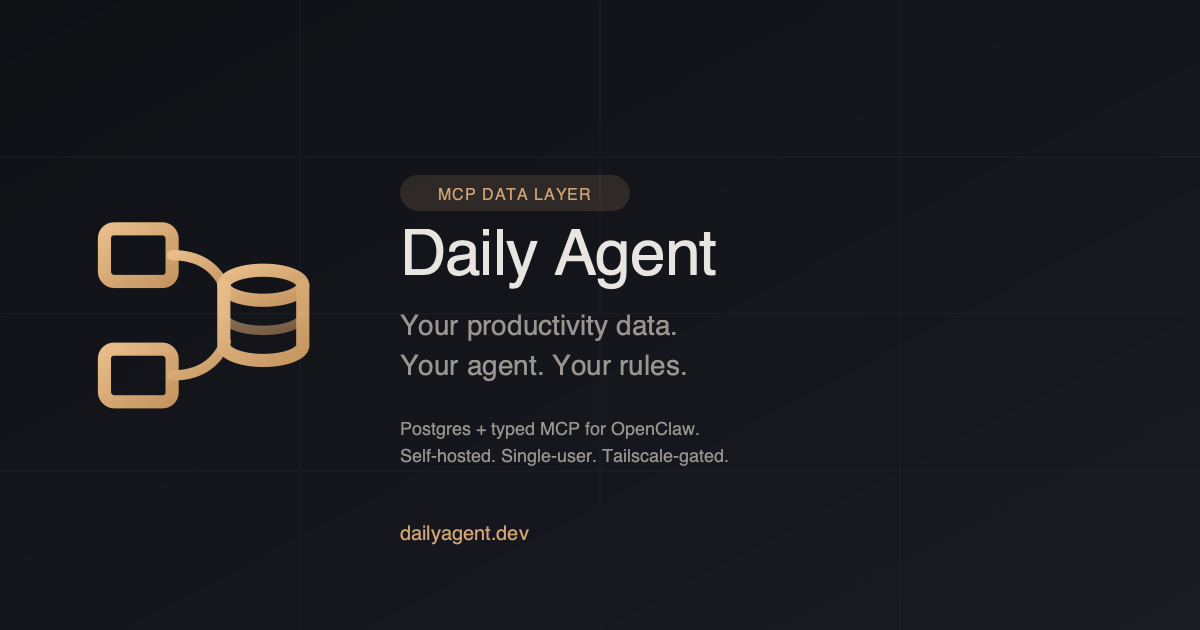
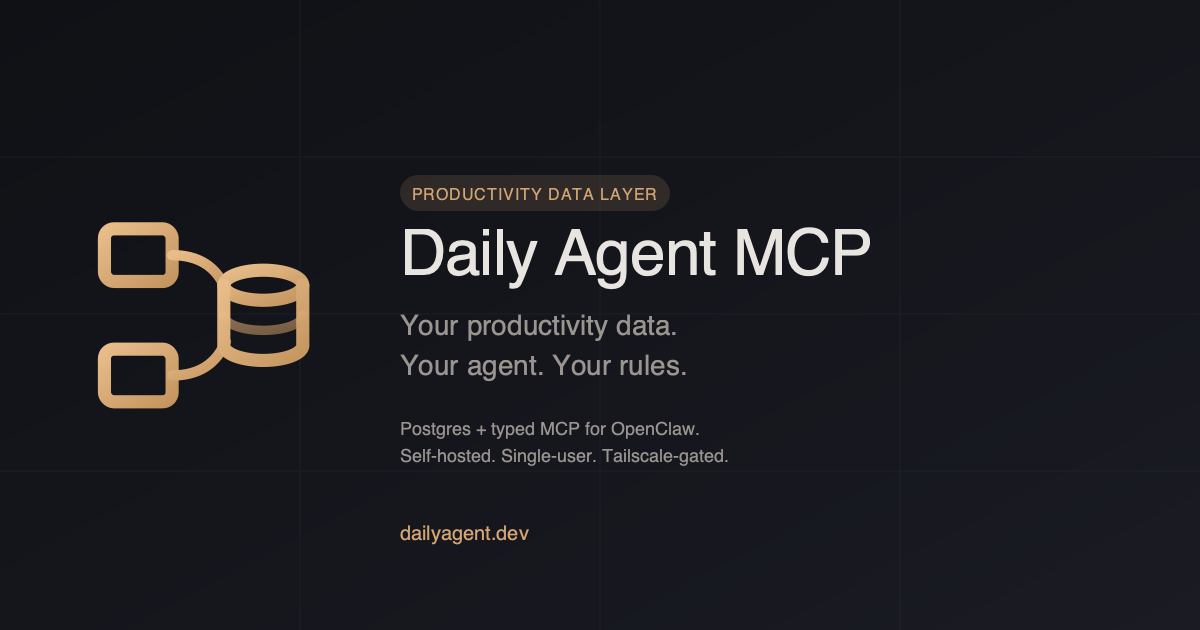
Brand: Daily Agent → Daily Agent MCP
The plain "Daily Agent" name was colliding with a long list of
unrelated habit-tracker / AI-assistant products. Bumping to
"Daily Agent MCP" is more distinctive, immediately communicates what
the thing actually is to the MCP-aware audience, and fits the
community naming pattern (GitHub MCP, Postgres MCP, etc.) where
MCP servers append the protocol to the product name.

Scope: user-facing brand only. Domain (dailyagent.dev), repo,
container names, DB name, env var names, package.json — all
unchanged. This is purely a display-name bump.

Updated:
- Landing page: <title>, OG/Twitter tags, brand in nav, schema.org
- OG social image: regenerated PNG with new title; badge changed
  from "MCP DATA LAYER" to "PRODUCTIVITY DATA LAYER" to kill the
  now-redundant MCP repetition with the title
- Logo SVG aria-label + title
- MkDocs site_name + per-page OG/Twitter template overrides
- README / docs / skill file H1s
- Sidebar brand text in the dashboard
- Next.js root metadata fallback + docker-compose env default
- MCP server name returned in initialize() — OpenClaw clients will
  now see "Daily Agent MCP" instead of "Daily Agent"
- PWA: manifest name + description (was stale "Your AI productivity
  agent"). short_name kept as "Daily Agent" for home-screen fit.
- PWA icons: replaced the old chat-bubble PWA icons in public/ with
  the new two-rects-to-cylinder mark; regenerated maskable-512 with
  the logo on a dark safe-zone background

Changed region(s): [[0.6167, 0.3619, 0.74, 0.4524], [0.3392, 0.2714, 0.555, 0.3317]]

diff --git a/landing/index.html b/landing/index.html
@@ -5,7 +5,7 @@
   <meta name="viewport" content="width=device-width, initial-scale=1.0">
   <meta name="theme-color" content="#0f1115">
 
-  <title>Daily Agent — Productivity data layer for OpenClaw</title>
+  <title>Daily Agent MCP — Productivity data layer for OpenClaw</title>
   <meta name="description" content="Hardened productivity data layer for OpenClaw. Postgres behind a typed MCP interface, plus a Next.js dashboard that reads and edits the same database. Self-hosted, single-user, Tailscale-gated.">
   <meta name="author" content="WalrusQuant">
 
@@ -16,28 +16,28 @@
   <!-- Open Graph -->
   <meta property="og:type" content="website">
   <meta property="og:url" content="https://dailyagent.dev/">
-  <meta property="og:title" content="Daily Agent — Productivity data layer for OpenClaw">
+  <meta property="og:title" content="Daily Agent MCP — Productivity data layer for OpenClaw">
   <meta property="og:description" content="Postgres + typed MCP for your OpenClaw agent. Self-hosted, single-user, Tailscale-gated. No AI in the dashboard — that's the point.">
   <meta property="og:image" content="https://dailyagent.dev/og-image.png">
   <meta property="og:image:width" content="1200">
   <meta property="og:image:height" content="630">
-  <meta property="og:image:alt" content="Daily Agent — MCP data layer. Your productivity data. Your agent. Your rules.">
-  <meta property="og:site_name" content="Daily Agent">
+  <meta property="og:image:alt" content="Daily Agent MCP — Your productivity data. Your agent. Your rules.">
+  <meta property="og:site_name" content="Daily Agent MCP">
   <meta property="og:locale" content="en_US">
 
   <!-- Twitter -->
   <meta name="twitter:card" content="summary_large_image">
-  <meta name="twitter:title" content="Daily Agent — Productivity data layer for OpenClaw">
+  <meta name="twitter:title" content="Daily Agent MCP — Productivity data layer for OpenClaw">
   <meta name="twitter:description" content="Postgres + typed MCP for your OpenClaw agent. Self-hosted, single-user, Tailscale-gated.">
   <meta name="twitter:image" content="https://dailyagent.dev/og-image.png">
-  <meta name="twitter:image:alt" content="Daily Agent — MCP data layer. Your productivity data. Your agent. Your rules.">
+  <meta name="twitter:image:alt" content="Daily Agent MCP — Your productivity data. Your agent. Your rules.">
 
   <!-- JSON-LD -->
   <script type="application/ld+json">
   {
     "@context": "https://schema.org",
     "@type": "SoftwareApplication",
-    "name": "Daily Agent",
+    "name": "Daily Agent MCP",
     "description": "Hardened productivity data layer for OpenClaw. Postgres + typed MCP server + Next.js dashboard. Self-hosted, single-user, Tailscale-gated.",
     "url": "https://dailyagent.dev/",
     "applicationCategory": "DeveloperApplication",
@@ -482,7 +482,7 @@
     <div class="container">
       <a href="/" class="brand">
         <img src="/logo.svg" alt="">
-        Daily Agent
+        Daily Agent MCP
       </a>
       <div class="nav-links">
         <a href="/docs/">Docs</a>

diff --git a/overrides/main.html b/overrides/main.html
@@ -9,16 +9,16 @@
 
   <meta property="og:type" content="article">
   <meta property="og:url" content="{{ page_url }}">
-  <meta property="og:title" content="{{ page_title }} — Daily Agent">
+  <meta property="og:title" content="{{ page_title }} — Daily Agent MCP">
   <meta property="og:description" content="{{ page_description }}">
   <meta property="og:image" content="{{ og_image }}">
   <meta property="og:image:width" content="1200">
   <meta property="og:image:height" content="630">
-  <meta property="og:site_name" content="Daily Agent">
+  <meta property="og:site_name" content="Daily Agent MCP">
   <meta property="og:locale" content="en_US">
 
   <meta name="twitter:card" content="summary_large_image">
-  <meta name="twitter:title" content="{{ page_title }} — Daily Agent">
+  <meta name="twitter:title" content="{{ page_title }} — Daily Agent MCP">
   <meta name="twitter:description" content="{{ page_description }}">
   <meta name="twitter:image" content="{{ og_image }}">
 

diff --git a/src/lib/mcp/prompts/index.ts b/src/lib/mcp/prompts/index.ts
@@ -867,7 +867,7 @@ ${JSON.stringify(goal, null, 2)}
 
 Please provide:
 1. **Milestone breakdown** — 3-5 major milestones to reach this goal
-2. **Weekly task plan** — Specific tasks for the first 2 weeks (formatted as a task list I can add to Daily Agent)
+2. **Weekly task plan** — Specific tasks for the first 2 weeks (formatted as a task list I can add to Daily Agent MCP)
 3. **Daily habits to support it** — 1-2 daily habits that would accelerate progress
 4. **Potential blockers** — What might get in the way and how to pre-empt them
 5. **Success metrics** — How will I know I'm making real progress?

diff --git a/src/components/layout/Sidebar.tsx b/src/components/layout/Sidebar.tsx
@@ -123,7 +123,7 @@ export function Sidebar({ isOpen, onClose, collapsed, onToggleCollapse }: Sideba
             <div className="flex items-center justify-between">
               <div className="pl-[calc(16px+0.5rem)]">
                 <h1 className="text-base font-bold tracking-tight leading-none" style={{ color: "var(--text-primary)" }}>
-                  Daily Agent
+                  Daily Agent MCP
                 </h1>
                 <p className="text-[10px] uppercase tracking-widest mt-1" style={{ color: "var(--accent-primary)" }}>
                   Productivity

diff --git a/src/app/layout.tsx b/src/app/layout.tsx
@@ -13,7 +13,7 @@ const jetbrainsMono = JetBrains_Mono({
   subsets: ["latin"],
 });
 
-const siteName = process.env.NEXT_PUBLIC_SITE_NAME || "Daily Agent";
+const siteName = process.env.NEXT_PUBLIC_SITE_NAME || "Daily Agent MCP";
 const siteDescription = process.env.NEXT_PUBLIC_SITE_DESCRIPTION || "Your productivity dashboard";
 
 export const metadata: Metadata = {

diff --git a/src/lib/mcp/server.ts b/src/lib/mcp/server.ts
@@ -27,7 +27,7 @@ import { registerPrompts } from "./prompts";
 export function createMcpServer(): McpServer {
   const server = new McpServer(
     {
-      name: "Daily Agent",
+      name: "Daily Agent MCP",
       version: "1.0.0",
     },
     {

diff --git a/docs/openclaw-skill.md b/docs/openclaw-skill.md
@@ -3,7 +3,7 @@ name: dailyagent
 description: Productivity data layer. Call the dailyagent MCP server to read and write tasks, habits, journal entries, workouts, focus sessions, goals, spaces, weekly reviews, daily briefings, and insights. Use this any time the user mentions any of those.
 ---
 
-# Daily Agent — MCP Skill
+# Daily Agent MCP — OpenClaw Skill
 
 ## What this is
 

diff --git a/docs/index.md b/docs/index.md
@@ -1,4 +1,4 @@
-# Daily Agent
+# Daily Agent MCP
 
 **Hardened productivity data layer for [OpenClaw](https://openclaw.ai).**
 Postgres behind a typed MCP interface, plus a Next.js dashboard that reads and edits the same database. Self-hosted, single-user, Tailscale-gated.

diff --git a/README.md b/README.md
@@ -1,4 +1,4 @@
-# Daily Agent
+# Daily Agent MCP
 
 > 📖 **Full documentation:** <https://dailyagent.dev/>
 
